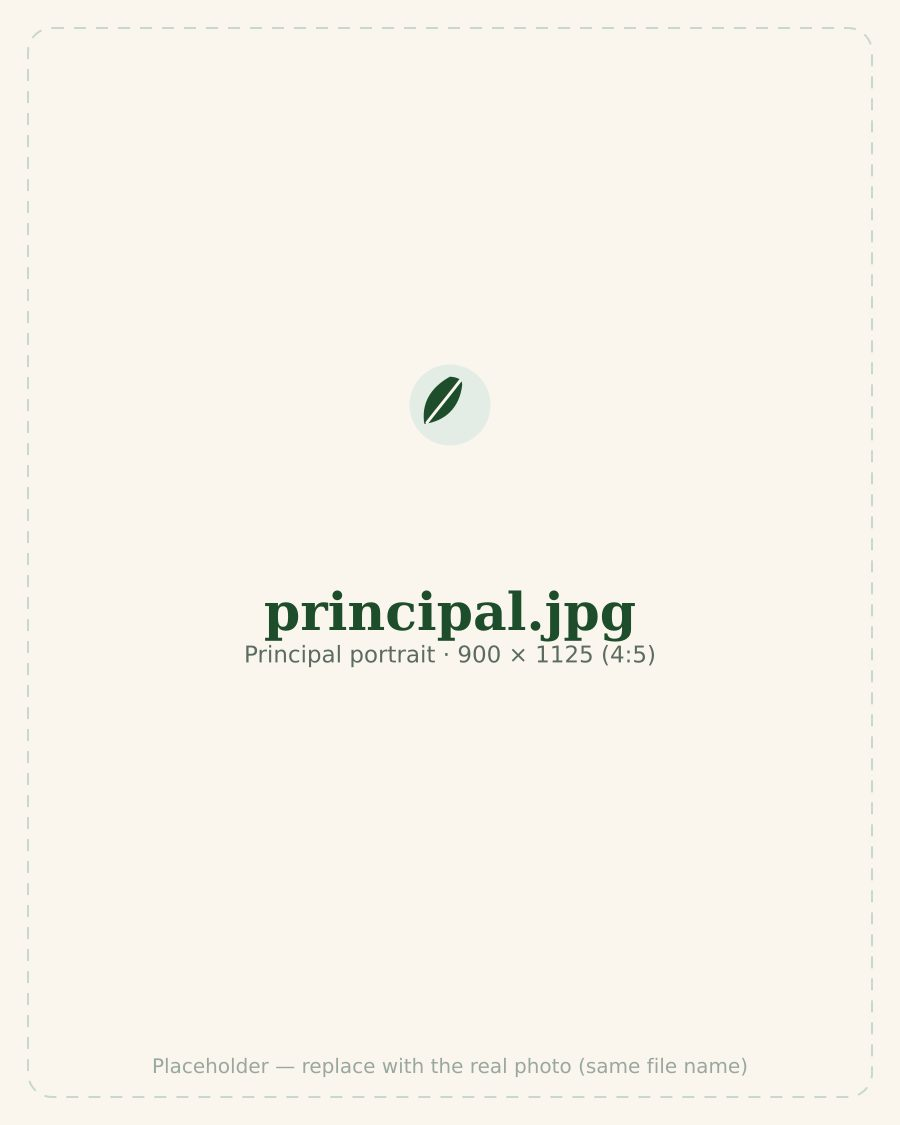
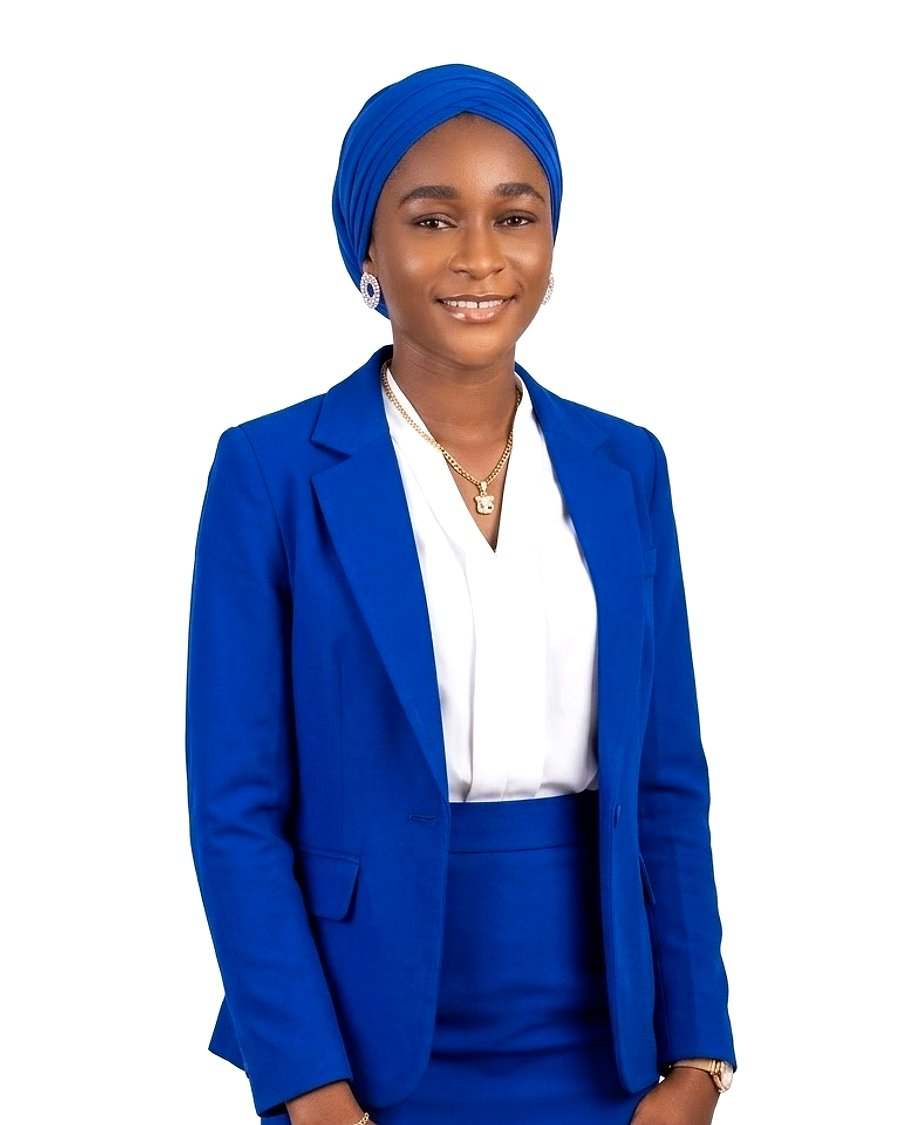
About: real Principal portrait and name (Adebayo Fateemah Adeshola)

diff --git a/app/about/page.tsx b/app/about/page.tsx
@@ -28,8 +28,7 @@ export const metadata: Metadata = {
   alternates: { canonical: canonicalUrl("/about") },
 };
 
-/* The Founder's name, message and portrait are the real ones.
-   TODO: replace the principal's name, message and portrait.
+/* Founder and Principal names, messages and portraits are the real ones.
    Portraits live in /public/images (proprietor.jpg, principal.jpg,
    4:5 or square). Team names below are placeholders (TODO markers). */
 
@@ -333,11 +332,11 @@ export default function AboutPage() {
             <PersonMessage
               reverse
               image={images.principal}
-              alt="Portrait of the school's principal"
+              alt="Portrait of Adebayo Fateemah Adeshola, Principal of The Green Peace School"
               eyebrow="A message from our Principal"
-              name="Mr. Chinedu Eze" // TODO: replace
+              name="Adebayo Fateemah Adeshola"
               role="Principal"
-              signature="Chinedu Eze" // TODO: replace
+              signature="Adebayo Fateemah Adeshola"
               headingId="principal-heading"
               paragraphs={[
                 "Good morning, and welcome. At The Green Peace School our classrooms are alive: children reading aloud, asking “why”, building, singing and solving problems together. That energy is not an accident. It comes from a teaching method that respects how children actually learn: by doing, by playing, and by being challenged kindly.",

diff --git a/public/images/README.md b/public/images/README.md
@@ -22,7 +22,7 @@ itself (no code changes needed).
 | `welcome.jpg` 📷 | Home — welcome section | 1200×900 (4:3) | The main building with the mission & vision boards |
 | `about-story.jpg` 📷 | About — “Our Story” | 1200×800 (3:2) | The colourful classroom courtyard |
 | `proprietor.jpg` 📷 | About — Founder's message | 900×1125 (4:5) or square | Real portrait: Mr. Abatti Olalekan Ahmed, Founder |
-| `principal.jpg` 🖼 | About — Principal message | 900×1125 (4:5) or square | **Placeholder** — portrait, shoulders-up |
+| `principal.jpg` 📷 | About — Principal's message | 900×1125 (4:5) or square | Real portrait: Adebayo Fateemah Adeshola, Principal |
 | `nursery.jpg` 📷 | Academics — Nursery card | 1000×750 (4:3) | The colourful colonnade beside the play yard |
 | `primary.jpg` 📷 | Academics — Primary card | 1000×750 (4:3) | The classroom wing and open yard |
 | `secondary.jpg` 📷 | Academics — Secondary card | 1000×750 (4:3) | The main building |
